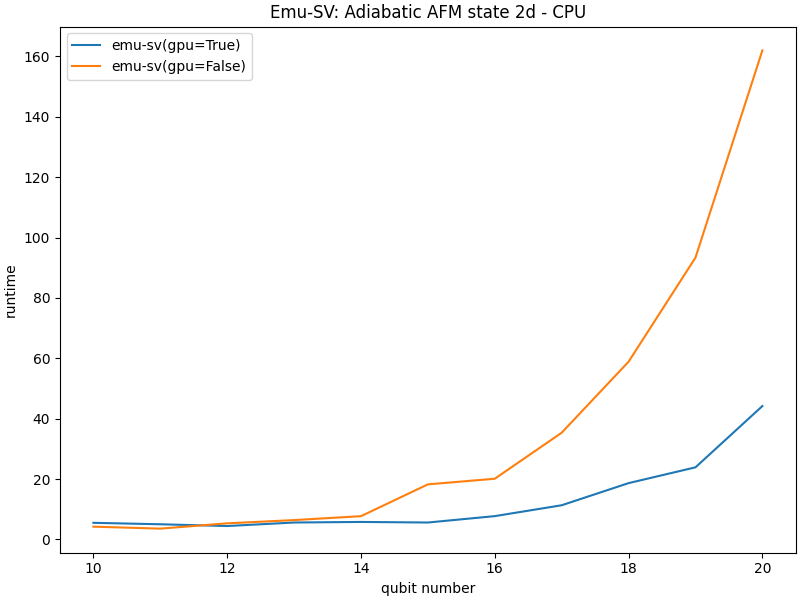
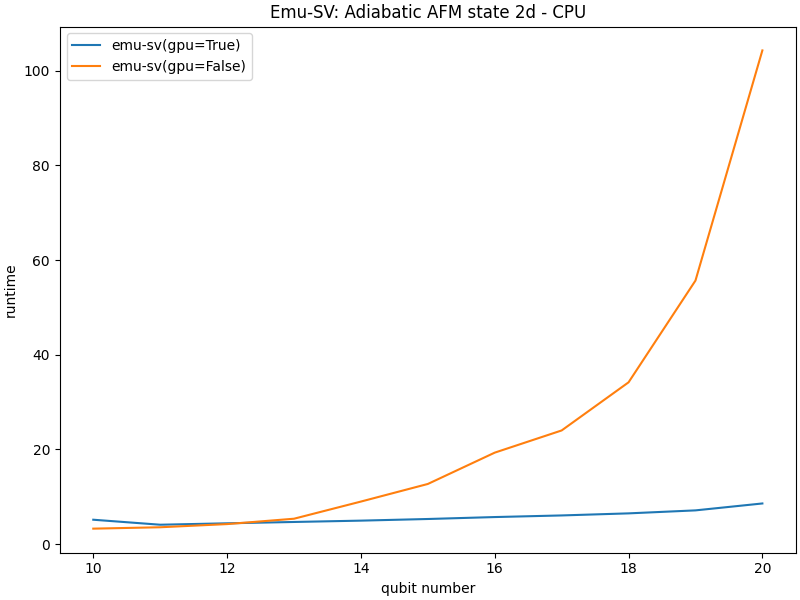
bunch of stuff

diff --git a/test/emu_sv/test_custom_callbacks.py b/test/emu_sv/test_custom_callbacks.py
@@ -8,6 +8,7 @@ from emu_sv.custom_callback_implementations import (
     energy_variance_sv_impl,
     second_moment_sv_impl,
 )
+from emu_base import DEVICE_COUNT
 from emu_base.base_classes.default_callbacks import (
     QubitDensity,
     CorrelationMatrix,
@@ -21,8 +22,7 @@ from unittest.mock import MagicMock
 
 from emu_sv.hamiltonian import RydbergHamiltonian
 
-# device = "cuda"
-device = "cpu"
+device = "cuda" if DEVICE_COUNT > 0 else "cpu"
 
 
 def test_custom_qubit_density():
@@ -48,7 +48,7 @@ def test_custom_qubit_density():
 
     qubit_density = qubit_density_sv_impl(qubit_density_mock, config, t, state, H_mock)
     expected = [0.5] * num_qubits
-    assert qubit_density == approx(expected, abs=1e-8)
+    assert qubit_density.cpu() == approx(expected, abs=1e-8)
 
 
 def test_custom_correlation():
@@ -79,7 +79,7 @@ def test_custom_correlation():
 
     for i, row in enumerate(correlation):
         for j, col in enumerate(row):
-            assert col == approx(expected[i][j], abs=1e-8)
+            assert col.cpu() == approx(expected[i][j], abs=1e-8)
 
 
 def test_custom_energy_and_variance_and_second():
@@ -91,7 +91,7 @@ def test_custom_energy_and_variance_and_second():
     num_qubits = 4
     strings = {"rgrg": 1.0, "grgr": 1.0}
     state = StateVector.from_state_string(
-        basis=basis, nqubits=num_qubits, strings=strings
+        basis=basis, nqubits=num_qubits, strings=strings, gpu=device == "cuda"
     )
     config = SVConfig()
 
@@ -112,7 +112,7 @@ def test_custom_energy_and_variance_and_second():
     )
     expected_varaince = 3.67378968943955
 
-    assert energy_variance == approx(expected_varaince, abs=4e-7)
+    assert energy_variance.cpu() == approx(expected_varaince, abs=4e-7)
 
     second_moment_energy_mock = MagicMock(spec=SecondMomentOfEnergy)
     second_moment_mock = second_moment_energy_mock.return_value
@@ -120,4 +120,4 @@ def test_custom_energy_and_variance_and_second():
     second_moment = second_moment_sv_impl(second_moment_mock, config, t, state, h_rydberg)
     expected_second = 4.2188228611101
 
-    assert second_moment == approx(expected_second, abs=2e-7)
+    assert second_moment.cpu() == approx(expected_second, abs=2e-7)

diff --git a/emu_sv/state_vector.py b/emu_sv/state_vector.py
@@ -5,7 +5,7 @@ from typing import Any, Iterable
 import math
 
 
-from emu_base import State
+from emu_base import State, DEVICE_COUNT
 
 import torch
 
@@ -30,7 +30,7 @@ class StateVector(State):
         self,
         vector: torch.Tensor,
         *,
-        gpu: bool = False,
+        gpu: bool = True,
     ):
         # NOTE: this accepts also zero vectors.
 
@@ -38,7 +38,7 @@ class StateVector(State):
             len(vector)
         ).is_integer(), "The number of elements in the vector should be power of 2"
 
-        device = "cuda" if gpu else "cpu"
+        device = "cuda" if gpu and DEVICE_COUNT > 0 else "cpu"
         self.vector = vector.to(dtype=dtype, device=device)
 
     def _normalize(self) -> None:
@@ -50,7 +50,7 @@ class StateVector(State):
             self.vector = self.vector / norm_state
 
     @classmethod
-    def zero(cls, num_sites: int, gpu: bool = False) -> StateVector:
+    def zero(cls, num_sites: int, gpu: bool = True) -> StateVector:
         """
         Returns a zero uninitialized "state" vector. Warning, this has no physical meaning as-is!
 
@@ -66,12 +66,12 @@ class StateVector(State):
             tensor([0.+0.j, 0.+0.j, 0.+0.j, 0.+0.j], dtype=torch.complex128)
         """
 
-        device = "cuda" if gpu else "cpu"
+        device = "cuda" if gpu and DEVICE_COUNT > 0 else "cpu"
         vector = torch.zeros(2**num_sites, dtype=dtype, device=device)
         return cls(vector, gpu=gpu)
 
     @classmethod
-    def make(cls, num_sites: int, gpu: bool = False) -> StateVector:
+    def make(cls, num_sites: int, gpu: bool = True) -> StateVector:
         """
         Returns a State vector in ground state |000..0>.
         The vector in the output of StateVector has the shape (2,)*number of qubits

diff --git a/test/emu_sv/test_dense_operator.py b/test/emu_sv/test_dense_operator.py
@@ -37,7 +37,7 @@ def test_algebra_dense_op(zero, one):
     expected_a[3, 6] = -12.0
     expected_a = expected_a + expected_a.T
 
-    assert torch.allclose(oper_a.matrix, expected_a)
+    assert torch.allclose(oper_a.matrix.cpu(), expected_a)
 
     # define second operator
 
@@ -63,7 +63,7 @@ def test_algebra_dense_op(zero, one):
     expected_b[3, 4] = -24.0j
     expected_b = expected_b + torch.conj(expected_b).T
 
-    assert torch.allclose(oper_b.matrix, expected_b)
+    assert torch.allclose(oper_b.matrix.cpu(), expected_b)
 
     # summing 2 operators
 
@@ -80,7 +80,7 @@ def test_algebra_dense_op(zero, one):
     expected_sum[3, 4] = -24.0j
     expected_sum = expected_sum + torch.conj(expected_sum).T
 
-    assert torch.allclose(expected_sum, result_sum.matrix)
+    assert torch.allclose(expected_sum, result_sum.matrix.cpu())
 
     # multiplication by scalar
 
@@ -94,7 +94,7 @@ def test_algebra_dense_op(zero, one):
 
     expected_mult_r = expected_mult_r + expected_mult_r.T
 
-    assert torch.allclose(result_mul_r.matrix, expected_mult_r)
+    assert torch.allclose(result_mul_r.matrix.cpu(), expected_mult_r)
 
     # application to a StateVector
 
@@ -120,7 +120,7 @@ def test_algebra_dense_op(zero, one):
         dtype=torch.complex128,
     )
 
-    assert torch.allclose(expected_mult_state, result_mult_state.vector)
+    assert torch.allclose(expected_mult_state, result_mult_state.vector.cpu())
 
     # expectation value
 
@@ -146,4 +146,4 @@ def test_algebra_dense_op(zero, one):
     expected_mult_op_op[5, 7] = 12 * 24j
     expected_mult_op_op[7, 5] = 12 * 24j
 
-    assert torch.allclose(result_op_mult_op.matrix, expected_mult_op_op)
+    assert torch.allclose(result_op_mult_op.matrix.cpu(), expected_mult_op_op)

diff --git a/emu_sv/dense_operator.py b/emu_sv/dense_operator.py
@@ -4,8 +4,10 @@ from typing import Any, Iterable
 
 import torch
 from emu_base.base_classes.operator import FullOp, QuditOp
-from emu_base.base_classes import Operator, State
+from emu_base import Operator, State, DEVICE_COUNT
 from emu_sv.state_vector import StateVector
+
+dtype = torch.complex128
 
 
 def _validate_operator_targets(operations: FullOp, nqubits: int) -> None:
@@ -33,9 +35,11 @@ class DenseOperator(Operator):
     def __init__(
         self,
         matrix: torch.Tensor,
-        /,
+        *,
+        gpu: bool = True,
     ):
-        self.matrix = matrix
+        device = "cuda" if gpu and DEVICE_COUNT > 0 else "cpu"
+        self.matrix = matrix.to(dtype=dtype, device=device)
 
     def __repr__(self) -> str:
         return repr(self.matrix)

diff --git a/emu_sv/sv_config.py b/emu_sv/sv_config.py
@@ -36,7 +36,7 @@ class SVConfig(BackendConfig):
             the size of the krylov subspace that the Lanczos algorithm maximally builds
         krylov_tolerance:
             the Lanczos algorithm uses this as the convergence tolerance
-        gpu: Use 1 gpu if True, otherwise, cpu.
+        gpu: Use 1 gpu if True, and a GPU is available, otherwise, cpu.
             Will cause errors if True when a gpu is not available
         kwargs: arguments that are passed to the base class
 
@@ -55,7 +55,7 @@ class SVConfig(BackendConfig):
         dt: int = 10,
         max_krylov_dim: int = 100,
         krylov_tolerance: float = 1e-10,
-        gpu: bool = False,
+        gpu: bool = True,
         **kwargs: Any,
     ):
         super().__init__(**kwargs)

diff --git a/emu_sv/sv_backend.py b/emu_sv/sv_backend.py
@@ -8,6 +8,7 @@ from emu_sv import StateVector
 import torch
 from time import time
 from resource import RUSAGE_SELF, getrusage
+from emu_base import DEVICE_COUNT
 
 
 class SVBackend(Backend):
@@ -38,7 +39,7 @@ class SVBackend(Backend):
 
         nsteps = omega.shape[0]
         nqubits = omega.shape[1]
-        device = "cuda" if sv_config.gpu else "cpu"
+        device = "cuda" if sv_config.gpu and DEVICE_COUNT > 0 else "cpu"
 
         if sv_config.initial_state is not None:
             state = sv_config.initial_state

diff --git a/emu_base/__init__.py b/emu_base/__init__.py
@@ -15,6 +15,7 @@ from .base_classes.default_callbacks import (
     StateResult,
     SecondMomentOfEnergy,
 )
+from .constants import DEVICE_COUNT
 from .pulser_adapter import PulserData, HamiltonianType
 from .math.brents_root_finding import find_root_brents
 from .math.krylov_exp import krylov_exp, DEFAULT_MAX_KRYLOV_DIM
@@ -42,6 +43,7 @@ __all__ = [
     "krylov_exp",
     "HamiltonianType",
     "DEFAULT_MAX_KRYLOV_DIM",
+    "DEVICE_COUNT",
 ]
 
 __version__ = "1.2.5"

diff --git a/emu_mps/mpo.py b/emu_mps/mpo.py
@@ -6,10 +6,9 @@ import torch
 
 from emu_mps.algebra import add_factors, scale_factors, zip_right
 from emu_base.base_classes.operator import FullOp, QuditOp
-from emu_base import Operator, State
+from emu_base import Operator, State, DEVICE_COUNT
 from emu_mps.mps import MPS
 from emu_mps.utils import new_left_bath, assign_devices
-from emu_mps.constants import DEVICE_COUNT
 
 
 def _validate_operator_targets(operations: FullOp, nqubits: int) -> None:

diff --git a/emu_mps/mps.py b/emu_mps/mps.py
@@ -6,7 +6,7 @@ from typing import Any, List, Optional, Iterable
 
 import torch
 
-from emu_base import State
+from emu_base import State, DEVICE_COUNT
 from emu_mps import MPSConfig
 from emu_mps.algebra import add_factors, scale_factors
 from emu_mps.utils import (
@@ -16,7 +16,6 @@ from emu_mps.utils import (
     tensor_trace,
     n_operator,
 )
-from emu_mps.constants import DEVICE_COUNT
 
 
 class MPS(State):

diff --git a/emu_mps/mps_backend_impl.py b/emu_mps/mps_backend_impl.py
@@ -11,9 +11,8 @@ import torch
 import time
 from pulser import Sequence
 
-from emu_base import Results, State, PulserData
+from emu_base import Results, State, PulserData, DEVICE_COUNT
 from emu_base.math.brents_root_finding import BrentsRootFinder
-from emu_mps.constants import DEVICE_COUNT
 from emu_mps.hamiltonian import make_H, update_H
 from emu_mps.mpo import MPO
 from emu_mps.mps import MPS

diff --git a/test/emu_sv/test_state.py b/test/emu_sv/test_state.py
@@ -36,7 +36,7 @@ def test_inner_algebra_sample():
         [1.0 / factor, -factor, 0.0, 0.0, 0.0, 0.0, 0.0, -1 / factor], dtype=dtype
     )
 
-    assert torch.allclose(add_result.vector, add_expected, rtol=0, atol=1e-6)
+    assert torch.allclose(add_result.vector.cpu(), add_expected, rtol=0, atol=1e-6)
 
     torch.manual_seed(seed)
     sampling1 = state1.sample(1000)

diff --git a/emu_mps/mps_config.py b/emu_mps/mps_config.py
@@ -1,7 +1,6 @@
 from typing import Any
 
-from emu_base import BackendConfig, State
-from emu_mps.constants import DEVICE_COUNT
+from emu_base import BackendConfig, State, DEVICE_COUNT
 
 
 class MPSConfig(BackendConfig):
